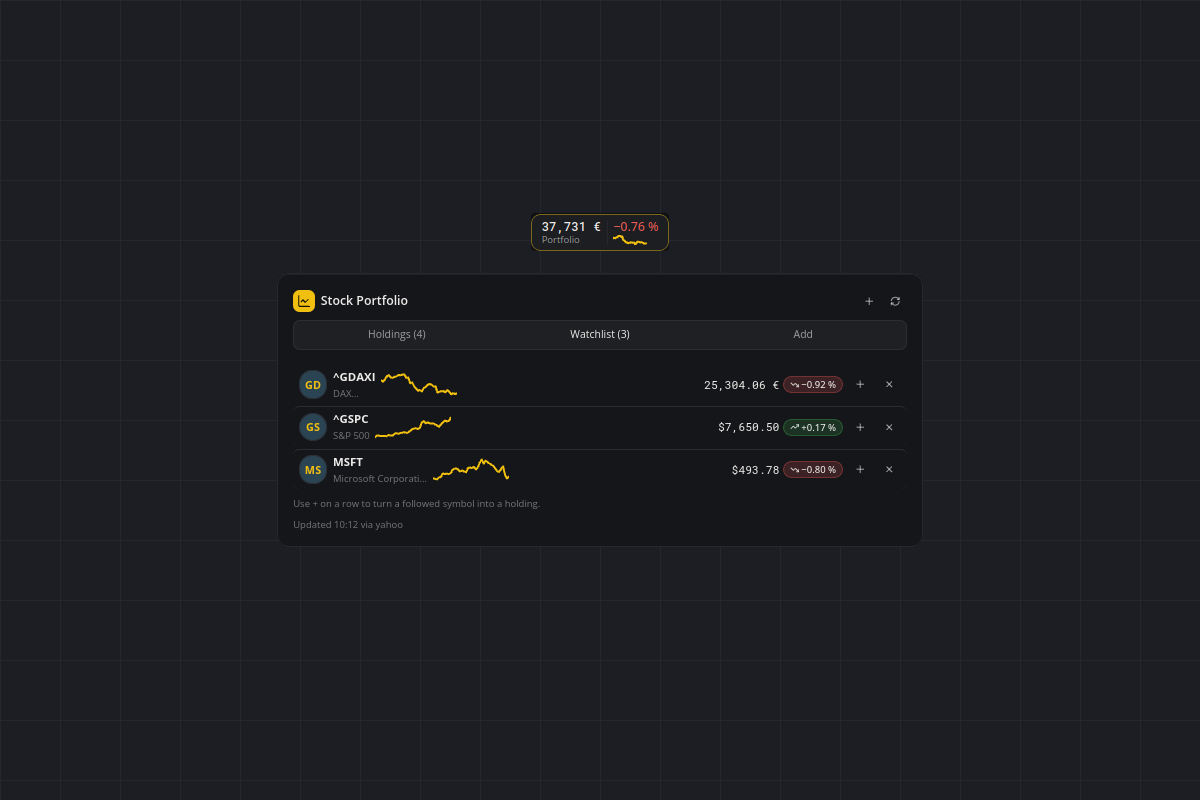
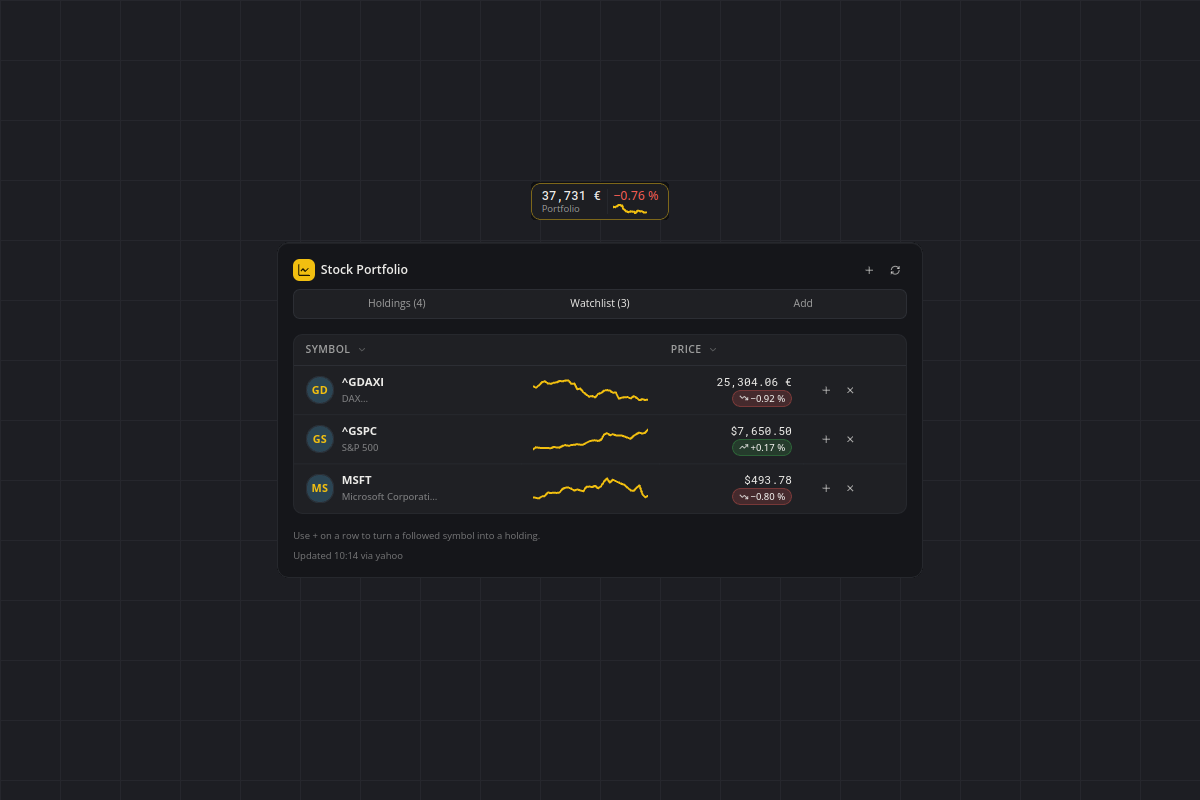
Stock Portfolio 1.2.1: watchlist as a table with symbol, trend and price over its day change

diff --git a/plugins/stock-portfolio/views.py b/plugins/stock-portfolio/views.py
@@ -3,8 +3,8 @@
 Every function returns an HTML string that plugin.py pushes with app.render.
 Nothing here imports the SDK, so the markup can be rendered and inspected
 without a running bar. Only documented sb-* classes, data-* hooks and kit
-tokens are used; inline styles carry only data values, the kit's heroTint
-tokens and a max-width cap on a sparkline. All external text -
+tokens are used; inline styles carry only data values and the kit's heroTint
+tokens. All external text -
 symbols, instrument names, provider errors - goes through html.escape first.
 
 Flyout structure, in the order a new user meets it:
@@ -14,8 +14,9 @@ Flyout structure, in the order a new user meets it:
   Holdings        hero + KPIs side by side, then the position table.
                   With nothing held it is an empty state WITH a button that
                   jumps straight to the Add tab.
-  Watchlist       quotes without a holding, each with a one-click route into
-                  the portfolio.
+  Watchlist       a table of quotes without a holding: symbol, intraday
+                  trend, price over its day change, and a one-click route
+                  into the portfolio.
   Add             a two-step flow: find the instrument, then say how much you
                   own - or follow it without owning it.
 """
@@ -125,19 +126,29 @@ def _name(text: str, limit: int = 20) -> str:
     return f'<small class="sb-faint" title="{_q(text)}">{escape(short)}</small>'
 
 
-def _spark(
-    points: str, label: str, extra: str = "sb-accent", max_rem: float | None = None
-) -> str:
-    """`max_rem` caps the width where the sparkline is a flex item and would
-    otherwise grow into its neighbours (the watchlist rows)."""
+def _spark(points: str, label: str, extra: str = "sb-accent") -> str:
     if not points:
         return ""
     classes = f"sb-spark {extra}".strip()
-    width = f' style="max-width: {max_rem:g}rem"' if max_rem else ""
     return (
         f'<span class="{classes}" data-chart="sparkline" data-points="{_q(points)}"'
-        f' role="img" aria-label="{_q(label)}"{width}></span>'
+        f' role="img" aria-label="{_q(label)}"></span>'
     )
+
+
+def _sortable(label: str, numeric: bool = False) -> str:
+    """A table header the shell can sort by (data-sb-sort)."""
+    kind = '="number"' if numeric else ""
+    classes = ' class="sb-table__num"' if numeric else ""
+    return (
+        f'<th scope="col"{classes} data-sb-sort{kind}>'
+        f'<button type="button" class="sb-table__sort">{escape(label)}</button></th>'
+    )
+
+
+def _sr_header(label: str) -> str:
+    """A column whose header is only read out, not shown (trend, actions)."""
+    return f'<th scope="col"><span class="sb-sr-only">{escape(label)}</span></th>'
 
 
 def _button(
@@ -537,23 +548,14 @@ def _position_table(rows: list[dict], cfg: dict, t: Translator, lang: str) -> st
     the flyout's width instead of turning into a spreadsheet.
     """
     base = cfg["baseCurrency"]
-
-    def sortable(label: str, numeric: bool = False) -> str:
-        kind = '="number"' if numeric else ""
-        classes = ' class="sb-table__num"' if numeric else ""
-        return (
-            f'<th scope="col"{classes} data-sb-sort{kind}>'
-            f'<button type="button" class="sb-table__sort">{escape(label)}</button></th>'
-        )
-
     head = (
         "<thead><tr>"
-        + sortable(t("sp.colPosition"))
+        + _sortable(t("sp.colPosition"))
         + f'<th scope="col" class="sb-table__num">{escape(t("sp.colHolding"))}</th>'
-        + sortable(t("sp.colValue"), numeric=True)
-        + sortable(t("sp.colDay"), numeric=True)
-        + sortable(t("sp.colGain"), numeric=True)
-        + f'<th scope="col"><span class="sb-sr-only">{escape(t("sp.colActions"))}</span></th>'
+        + _sortable(t("sp.colValue"), numeric=True)
+        + _sortable(t("sp.colDay"), numeric=True)
+        + _sortable(t("sp.colGain"), numeric=True)
+        + _sr_header(t("sp.colActions"))
         + "</tr></thead>"
     )
 
@@ -684,7 +686,7 @@ def _portfolio_panel(
 def _watch_row(
     symbol: str, quote: dict | None, data: dict, t: Translator, lang: str
 ) -> str:
-    """One watched quote, with the one-click route into the portfolio."""
+    """One watched quote: symbol, trend, price over its day change, actions."""
     controls = _button(
         "pick",
         tr(t, "sp.buyThis", symbol=symbol),
@@ -698,27 +700,27 @@ def _watch_row(
         symbol="x",
         icon_only=True,
     )
+    who = (
+        f'<td><span class="sb-table__person">{_avatar(symbol)}'
+        f'<span><b>{escape(symbol)}</b><br>{_name((quote or {}).get("name") or symbol)}'
+        "</span></span></td>"
+    )
     if not quote:
         return (
-            f'<div class="sb-row">{_avatar(symbol)}<b>{escape(symbol)}</b>'
-            f'<span class="sb-push"><span class="sb-badge sb-badge-warning">'
-            f'{escape(t("sp.noQuote"))}</span></span>{controls}</div>'
+            f"<tr>{who}<td></td>"
+            f'<td class="sb-table__num"><span class="sb-badge sb-badge-warning">'
+            f'{escape(t("sp.noQuote"))}</span></td><td>{controls}</td></tr>'
         )
     _, pct = portfolio.quote_change(quote)
     points = quote.get("points") or data["series"].get(symbol) or []
     spark = _spark(
-        portfolio.spark_points(points),
-        tr(t, "sp.symbolSpark", symbol=symbol),
-        max_rem=5,
+        portfolio.spark_points(points), tr(t, "sp.symbolSpark", symbol=symbol)
     )
-    # The sparkline is its own row item (width capped in _spark); price and
-    # badge share one cluster at the end, so neither gets squeezed.
+    price = portfolio.fmt_price(quote.get("price"), quote.get("currency"), lang)
     return (
-        f'<div class="sb-row">{_avatar(symbol)}'
-        f'<span><b>{escape(symbol)}</b><br>{_name(quote.get("name") or symbol)}</span>'
-        f'{spark}<span class="sb-inline sb-push"><span class="sb-mono">'
-        f'{escape(portfolio.fmt_price(quote.get("price"), quote.get("currency"), lang))}'
-        f"</span>{change_badge(pct, lang)}</span>{controls}</div>"
+        f"<tr>{who}<td>{spark}</td>"
+        f'<td class="sb-table__num"><span class="sb-mono">{escape(price)}</span><br>'
+        f"{change_badge(pct, lang)}</td><td>{controls}</td></tr>"
     )
 
 
@@ -740,8 +742,21 @@ def _watchlist_panel(data: dict, cfg: dict, t: Translator, lang: str) -> str:
         _watch_row(symbol, data["quotes"].get(symbol), data, t, lang)
         for symbol in cfg["watchlist"]
     )
+    head = (
+        "<thead><tr>"
+        + _sortable(t("sp.fieldSymbol"))
+        + _sr_header(t("sp.colTrend"))
+        + _sortable(t("sp.colPrice"), numeric=True)
+        + _sr_header(t("sp.colActions"))
+        + "</tr></thead>"
+    )
     return (
-        f'<div class="sb-list">{rows}</div>'
+        '<div class="sb-table-wrap" role="region" tabindex="0"'
+        ' aria-labelledby="sp-watch-caption">'
+        '<table class="sb-table sb-table--hover" id="sp-watch">'
+        '<caption class="sb-sr-only" id="sp-watch-caption">'
+        f'{escape(t("sp.watchCaption"))}</caption>'
+        f'{head}<tbody>{rows}</tbody></table></div>'
         f'<p class="sb-meta">{escape(t("sp.watchHint"))}</p>'
     )
 

diff --git a/plugins/stock-portfolio/tests/test_offline.py b/plugins/stock-portfolio/tests/test_offline.py
@@ -504,6 +504,19 @@ class Markup(unittest.TestCase):
         self.assertIn('data-action="pick" data-value="AAPL"', html)
         self.assertIn('data-action="remove-watch"', html)
 
+    def test_watchlist_is_a_table_with_symbol_trend_price_and_actions(self):
+        quotes = {"AAPL": quote("AAPL", 10.0, 9.0, "EUR", name="Apple Inc.", points=[9.0, 10.0])}
+        c = cfg(watchlist=["AAPL", "MSFT"], symbols=["AAPL", "MSFT"])
+        html = views.flyout(data(quotes=quotes, tab="watchlist", tabChosen=True), c, t, "en")
+        table = html[html.index('id="sp-watch"'):]
+        self.assertEqual(table.count("<th "), 4)
+        body = table[table.index("<tbody>"):]
+        self.assertEqual(body.count("<tr>"), 2)  # a row even without a quote
+        self.assertIn("sb-badge-warning", table)
+        # price over its day change in one numeric cell
+        self.assertRegex(table, r'sb-table__num"><span class="sb-mono">10\.00\u00a0\u20ac</span><br><span class="sb-badge sb-badge-success"')
+        self.assertIn('data-chart="sparkline"', table)
+
     def test_table_has_six_columns_and_one_row_per_holding(self):
         quotes = {"AAPL": quote("AAPL", 200.0, 190.0, "EUR", name="Apple Inc.")}
         c = cfg(positions=[{"symbol": "AAPL", "shares": 2.0, "buyPrice": 100.0}], symbols=["AAPL"])

diff --git a/plugins/stock-portfolio/README.md b/plugins/stock-portfolio/README.md
@@ -9,7 +9,7 @@ What your holdings are worth, right on the bar: portfolio value and day change, 
 - **Tile:** the portfolio value with its day change in one of four cover layouts (`statSplit`, `dualText`, `segmentHeader`, `basic`). `statSplit` draws the value curve of your last updates next to the change; until there are enough updates it shows the absolute day move instead. Optionally the tile rolls through the total and every tracked symbol.
 - **Flyout:** three tabs with counts in their labels.
   - *Holdings* — a hero that follows the day: green on a gaining day, red on a losing one, with the value, the change as a badge and in money, and the value curve. Four KPIs beside it: today, total gain, invested, and the top mover of the day. Below, the table with initials avatar, shares × price, value, day and gain, sortable by column, with edit and remove per row (also in the right-click menu). Without holdings there is an empty state with a button straight into the Add tab.
-  - *Watchlist* — quotes without a holding: price, change badge and an intraday sparkline. The **+** on a row turns a followed symbol into a holding.
+  - *Watchlist* — a table of quotes without a holding: symbol, intraday sparkline, and the price with its day change beneath. The **+** on a row turns a followed symbol into a holding.
   - *Add* — two steps: find the instrument (search, or one tap on DAX, S&P 500, Nasdaq 100, Apple, Microsoft), then decide: **Add to portfolio** with a number of shares, or **Only follow it**. While the search runs, placeholder rows stand in; a search without a match shows an empty state, not an error. A plugin with nothing tracked opens on this tab.
 
 ![Watchlist with sparklines](screenshots/02-watchlist.png)
